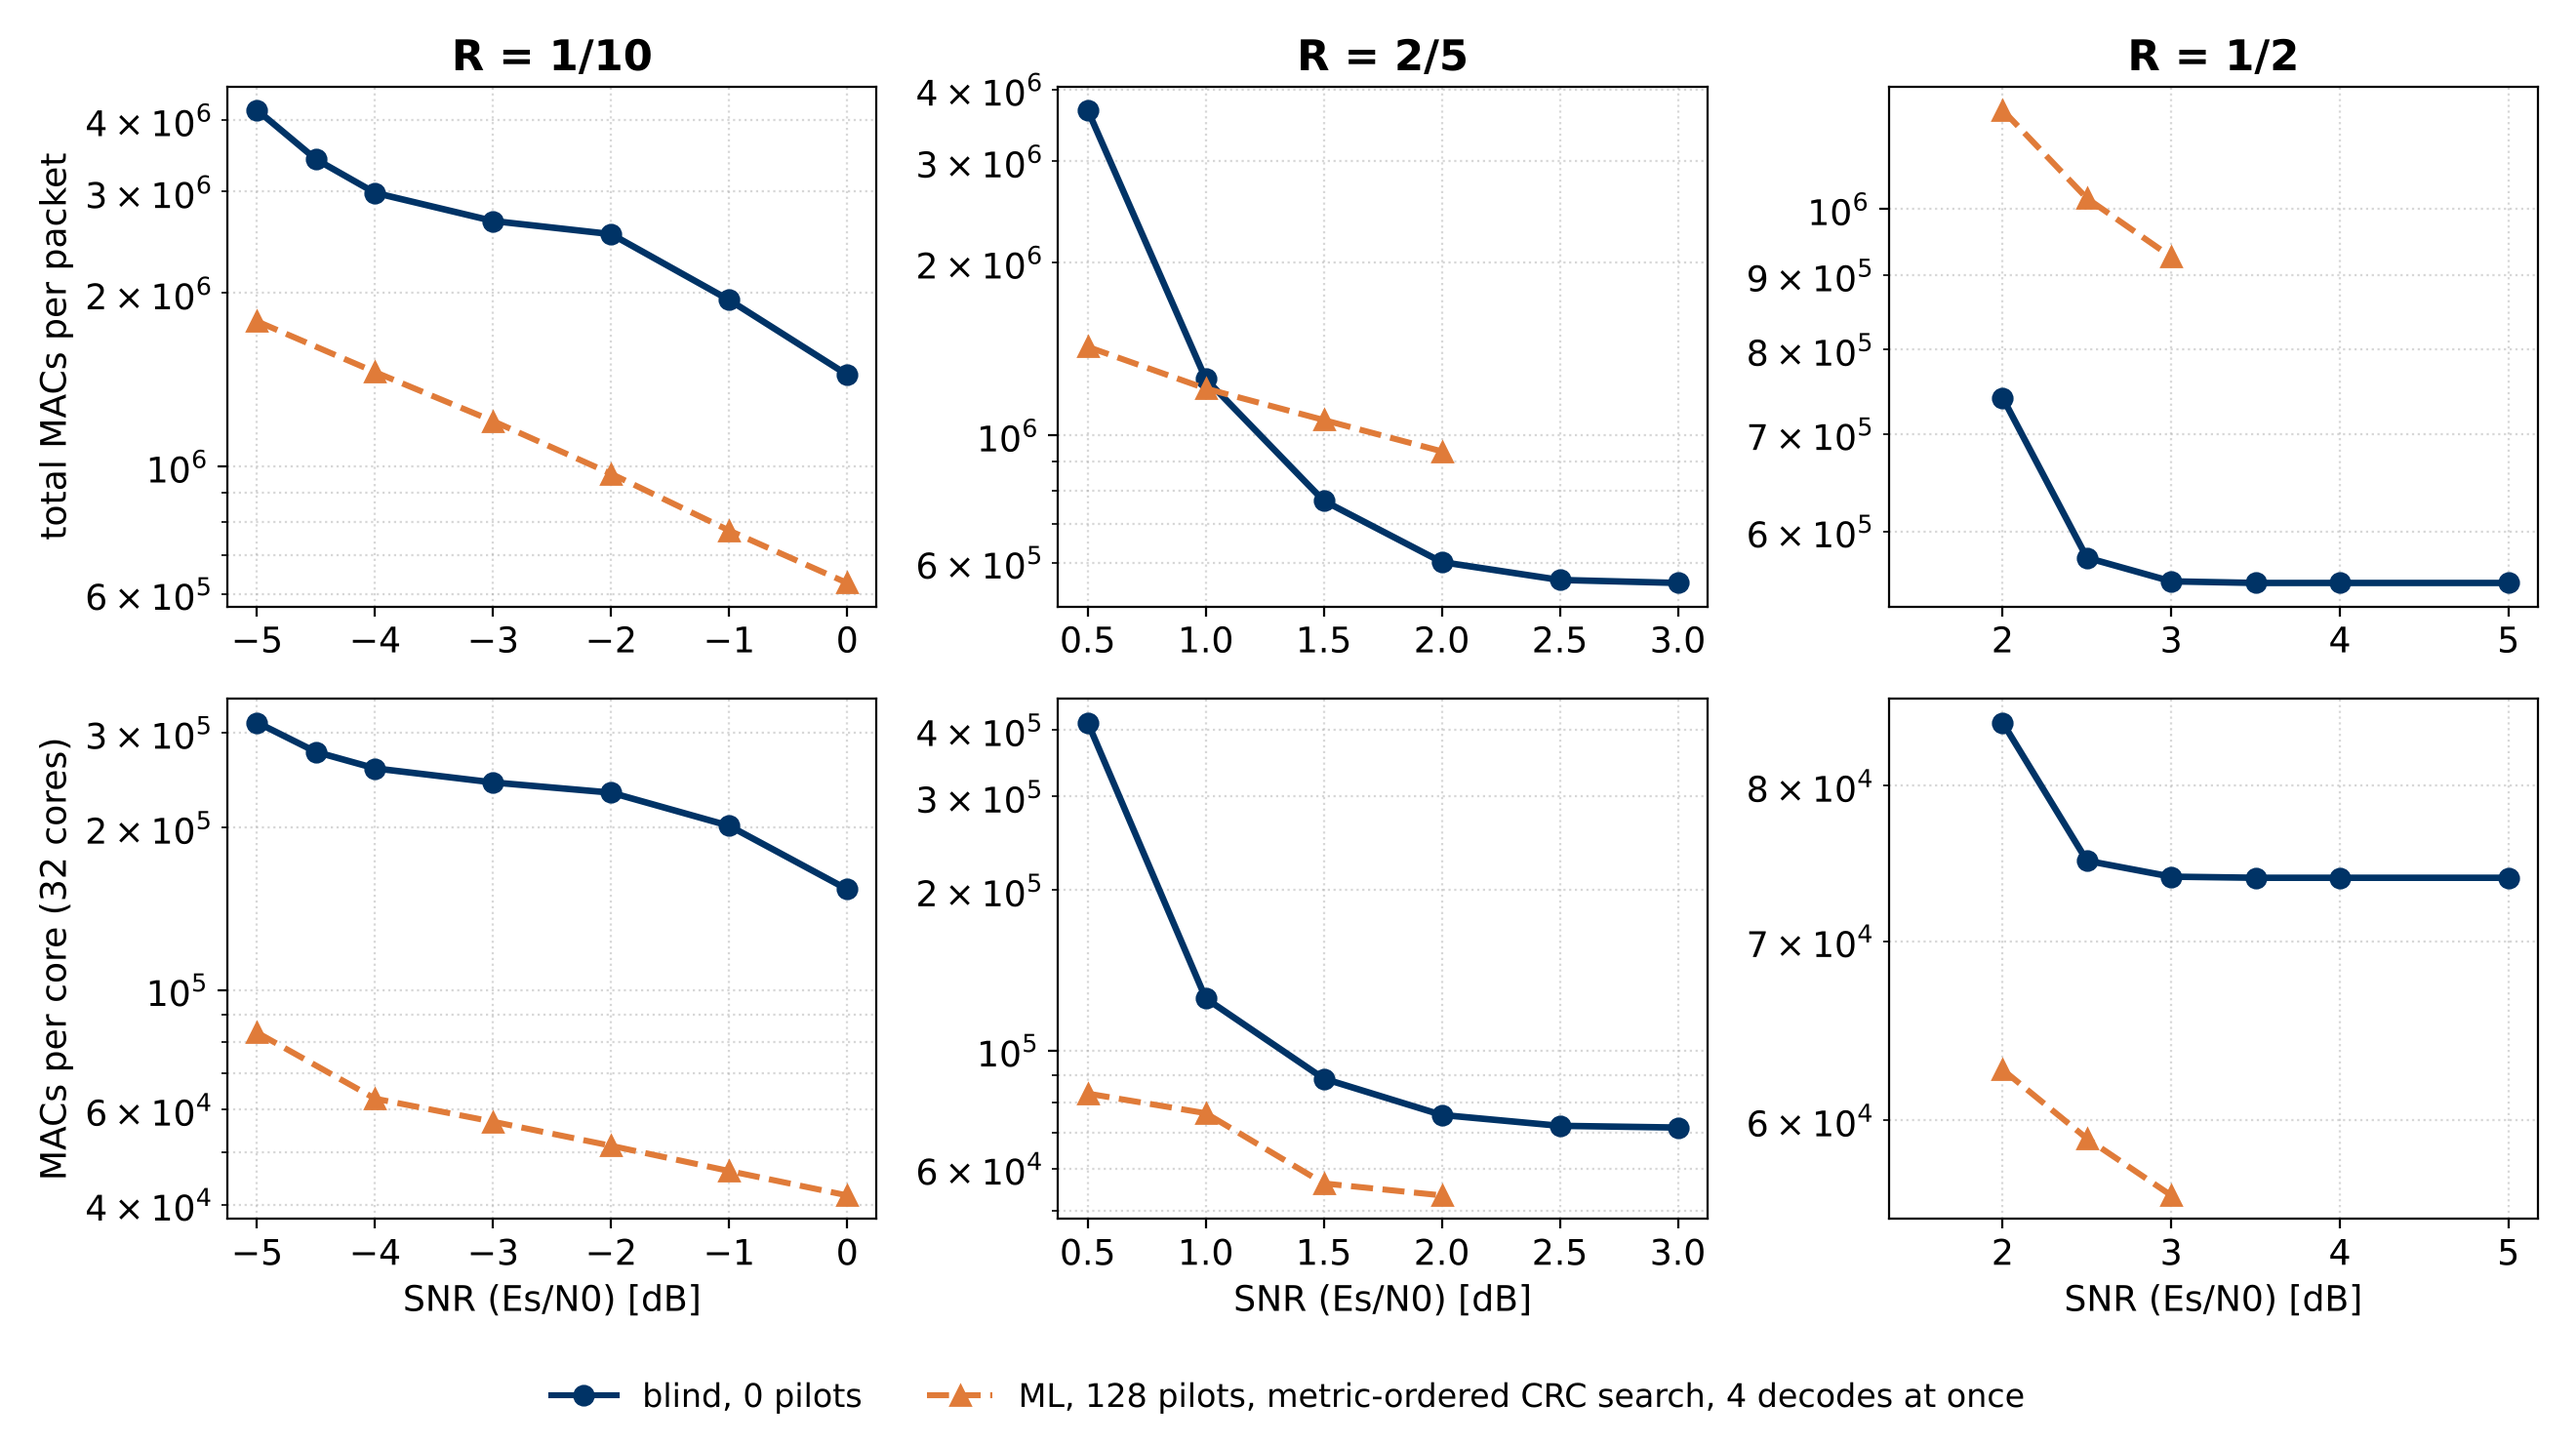
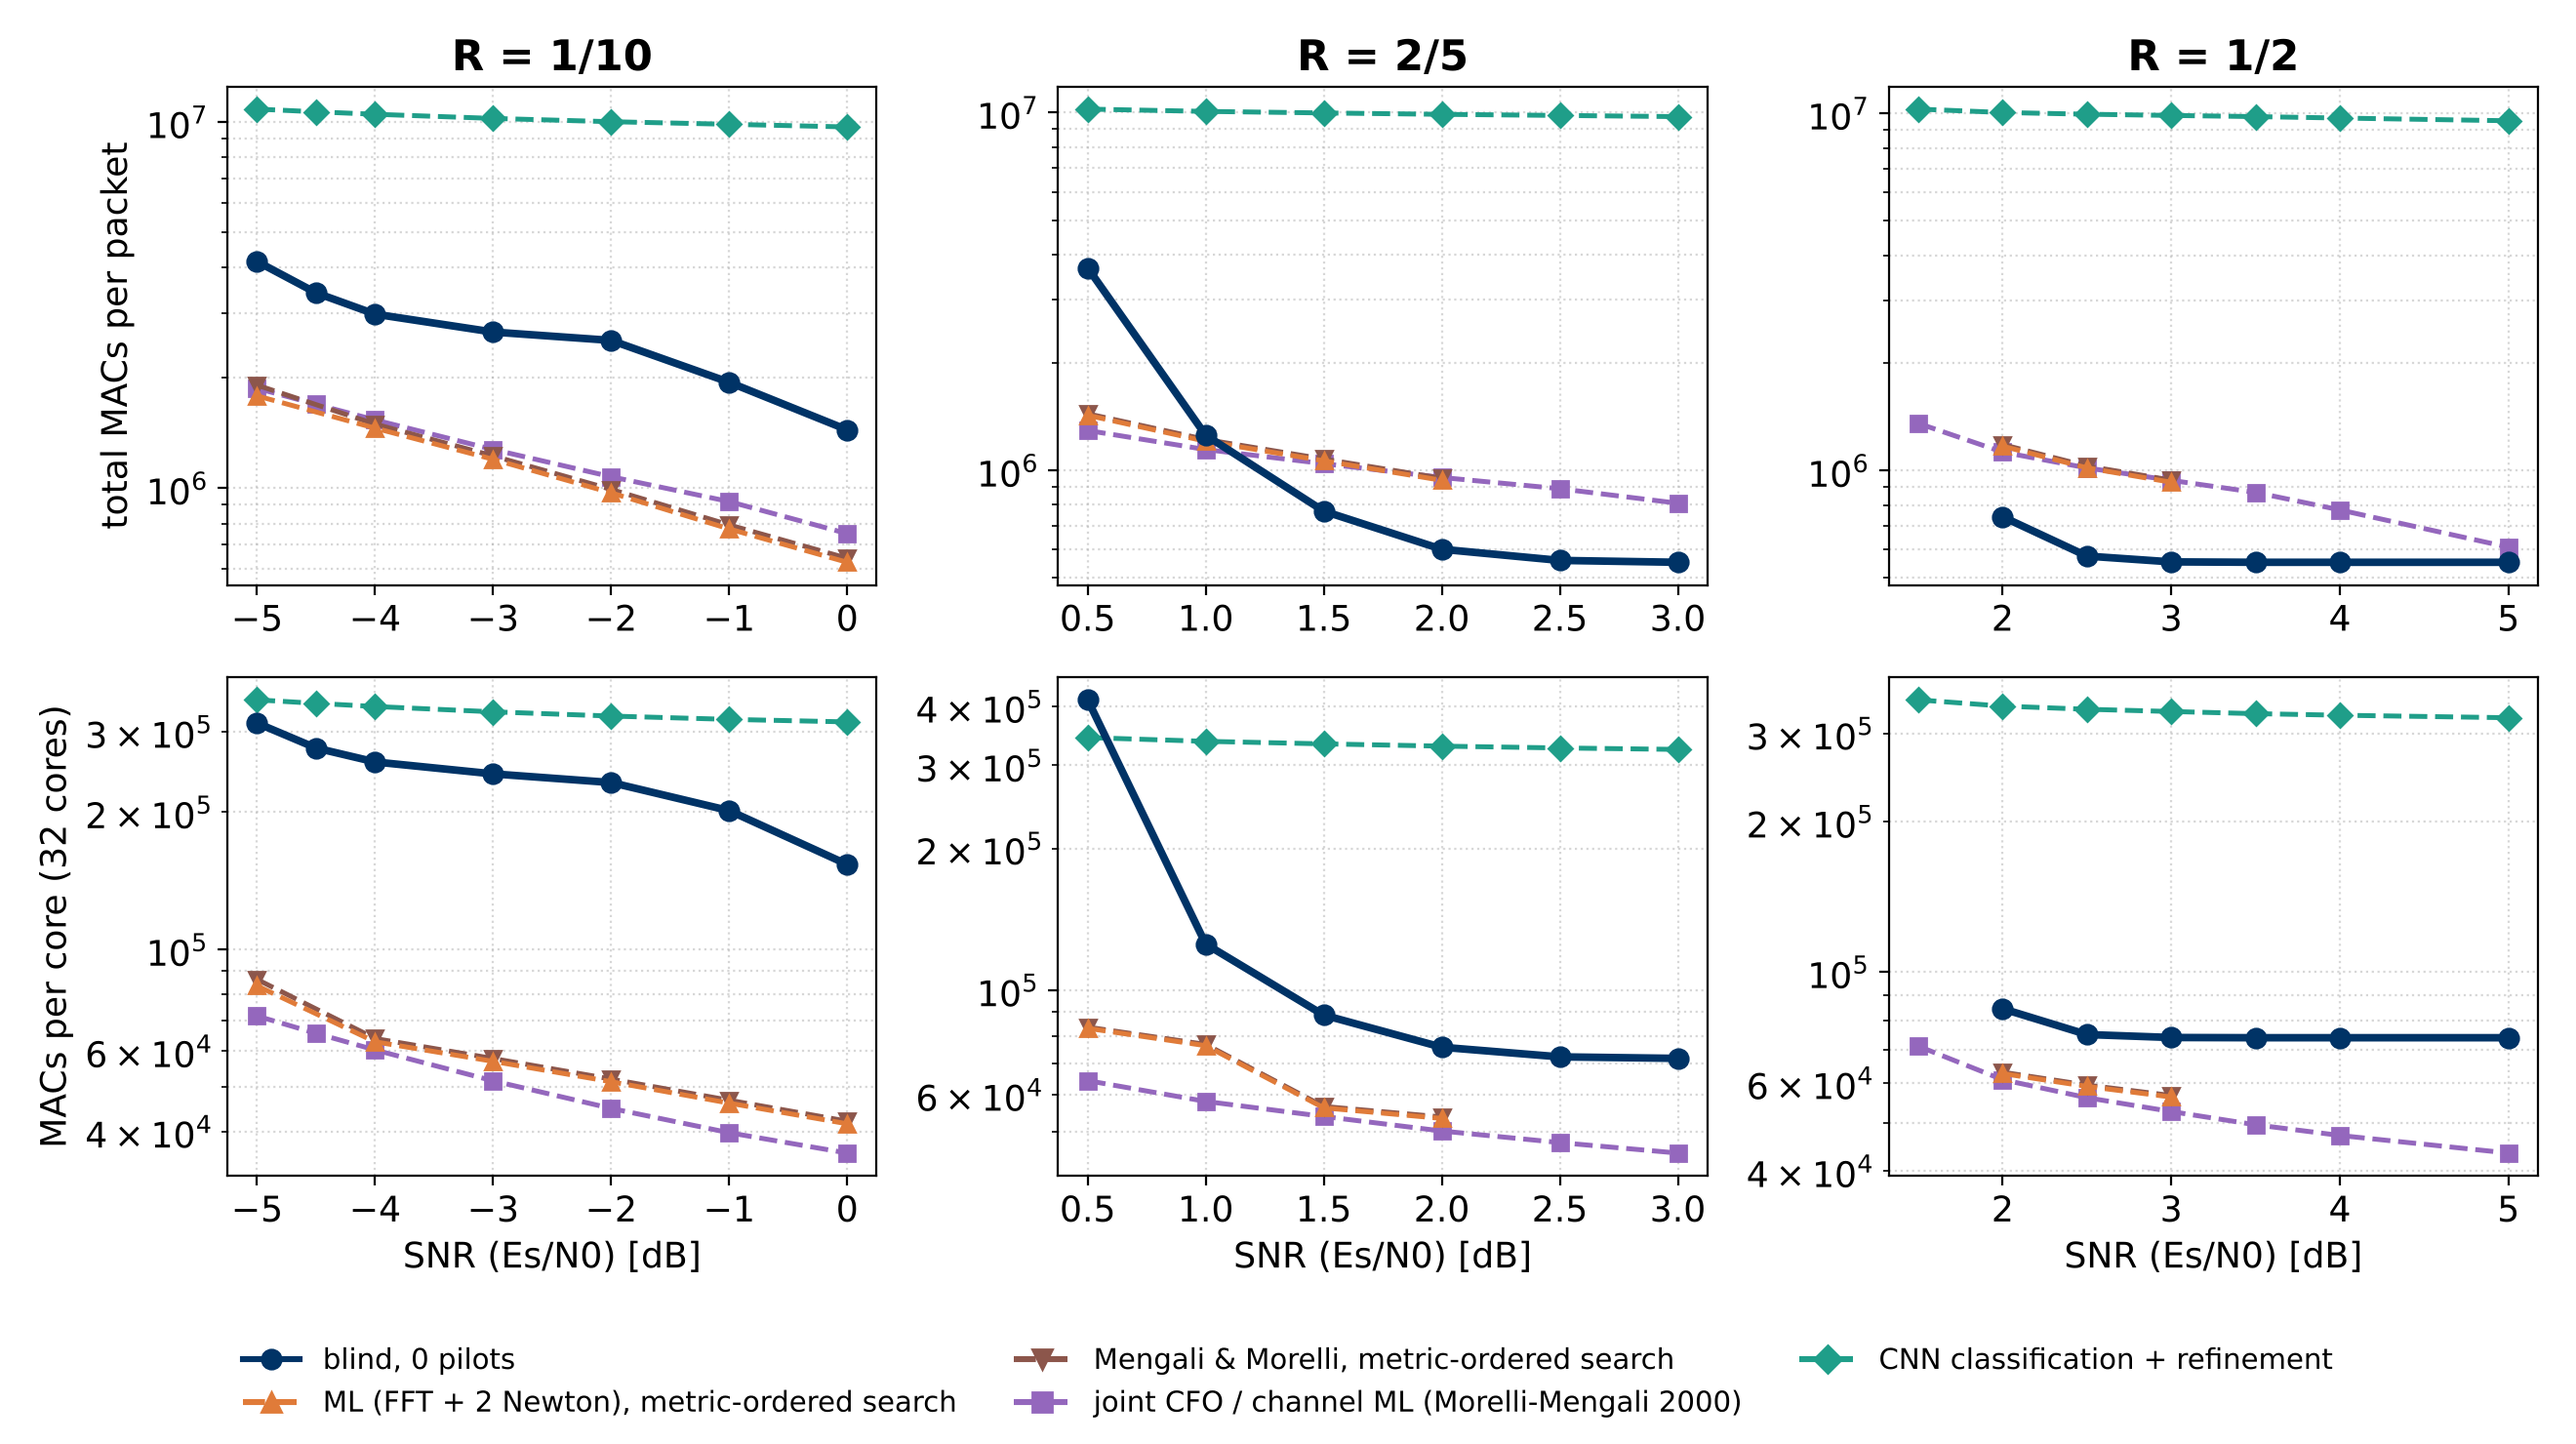
Slide figures: add M&M, joint CFO/channel ML, CNN, CRB and genie to the BLER and MACs-vs-SNR comparisons
Claude-Session: https://claude.ai/code/session_01Uut9iw5SnA6a3eeYDv3vkc

diff --git a/slides_eq/plot_results.py b/slides_eq/plot_results.py
@@ -26,6 +26,15 @@ D = json.load(open(os.path.join(HERE, "data", "results_c90c5b7.json")))
 RATES = ("1/10", "2/5", "1/2")
 NAVY, ORANGE, GREY = "#003366", "#E07B39", "#777777"
 PILOT = "ML, 128 pilots, metric-ordered CRC search"
+# 128-pilot receivers (est3, same back-end as blind). ML and M&M use the metric-ordered ("fair") CRC search; the joint
+# ML and CNN runs exist only with the fixed |k|-order search. CRB: CFO error drawn at the CRB (ideal estimator). Genie:
+# known CFO and phase, one decode (no MACs curve).
+MODELS = (("ML direct PM+all", "ML (FFT + 2 Newton), metric-ordered search", ORANGE, "^", "--"),
+          ("M&M PM+all", "Mengali & Morelli, metric-ordered search", "#8c564b", "v", "--"),
+          ("Joint ML Lh=3", "joint CFO / channel ML (Morelli-Mengali 2000)", "#9467bd", "s", "--"),
+          ("cnn-cr", "CNN classification + refinement", "#1f9e89", "D", "--"),
+          ("CRB 128 pilots", "CFO error at the CRB (ideal 128-pilot estimator)", GREY, "x", ":"),
+          ("Genie CFO", "genie: known CFO and phase, one decode", "k", "", ":"))
 plt.rcParams.update({"font.size": 13, "font.family": "DejaVu Sans"})
 
 
@@ -67,19 +76,29 @@ def xlim(ax, rate):
     ax.set_xlim(min(s) - pad, max(s) + pad)
 
 
+def in_range(rate, pts):
+    s = [p[0] for p in D[rate]["blind_cnt"] if p[2] >= 10000]
+    return [p for p in pts if min(s) - 1e-9 <= p[0] <= max(s) + 1e-9]
+
+
 def bler_all():
     fig, axs = plt.subplots(1, 3, figsize=(13.2, 4.7))
     for ax, rate in zip(axs, RATES):
         o = D[rate]
-        bl = [(s, e / n) for s, e, n, u in o["blind_cnt"] if n >= 10000]
-        ml = [(s, e / n) for s, e, n, *_ in o["ML direct PM+all"]]
-        draw(ax, bl, color=NAVY, ls="-", lw=2.2, marker="o", ms=7)
-        draw(ax, ml, color=ORANGE, ls="--", lw=2.2, marker="^", ms=7)
+        for src, lab, c, mk, ls in MODELS[::-1]:
+            pts = in_range(rate, [(s_, e / n) for s_, e, n, *_ in o[src]])
+            draw(ax, pts, color=c, ls=ls, lw=1.8, marker=mk, ms=6)
+        bl = [(s_, e / n) for s_, e, n, u in o["blind_cnt"] if n >= 10000]
+        draw(ax, bl, color=NAVY, ls="-", lw=2.8, marker="o", ms=7)
         ax.set_title(f"R = {rate}", fontweight="bold")
         xlim(ax, rate)
     axs[0].set_ylabel("BLER")
-    finish(fig, axs, [line(NAVY, "-", "o"), line(ORANGE, "--", "^")], ["blind, 0 pilots", PILOT])
-    fig.tight_layout(rect=(0, 0.08, 1, 1))
+    finish(fig, axs, [line(NAVY, "-", "o")] + [line(c, ls, mk) for _, _, c, mk, ls in MODELS],
+           ["blind, 0 pilots"] + [lab for _, lab, *_ in MODELS], ncol=3)
+    for lg in fig.legends:
+        for t in lg.get_texts():
+            t.set_fontsize(10.5)
+    fig.tight_layout(rect=(0, 0.17, 1, 1))
     fig.savefig(os.path.join(HERE, "bler_all.png"), dpi=200, facecolor="white")
 
 
@@ -103,14 +122,16 @@ def bler_cap():
 
 def macs_snr():
     fig, axs = plt.subplots(2, 3, figsize=(13.2, 7.4))
+    models = [m for m in MODELS if m[0] + " macs" in D["1/10"]]
     for j, rate in enumerate(RATES):
         o = D[rate]
-        bm = [p for p in o["blind_macs"]]
-        pm = o["ML direct PM+all macs"]
+        bm = o["blind_macs"]
         for i, (k, lab) in enumerate(((1, "total MACs per packet"), (2, "MACs per core (32 cores)"))):
             ax = axs[i, j]
-            ax.plot([p[0] for p in bm], [p[k] for p in bm], color=NAVY, lw=2.4, marker="o", ms=7)
-            ax.plot([p[0] for p in pm], [p[k] for p in pm], color=ORANGE, ls="--", lw=2.2, marker="^", ms=7)
+            for src, _, c, mk, ls in models[::-1]:
+                pm = in_range(rate, o[src + " macs"])
+                ax.plot([p[0] for p in pm], [p[k] for p in pm], color=c, ls=ls, lw=1.8, marker=mk, ms=6)
+            ax.plot([p[0] for p in bm], [p[k] for p in bm], color=NAVY, lw=2.8, marker="o", ms=7)
             ax.set_yscale("log")
             ax.grid(True, which="both", ls=":", alpha=0.5)
             if j == 0:
@@ -120,10 +141,10 @@ def macs_snr():
             else:
                 ax.set_xlabel("SNR (Es/N0) [dB]")
             xlim(ax, rate)
-    fig.legend([line(NAVY, "-", "o"), line(ORANGE, "--", "^")],
-               ["blind, 0 pilots", PILOT + ", 4 decodes at once"],
-               loc="lower center", ncol=2, fontsize=12, frameon=False)
-    fig.tight_layout(rect=(0, 0.06, 1, 1))
+    fig.legend([line(NAVY, "-", "o")] + [line(c, ls, mk) for _, _, c, mk, ls in models],
+               ["blind, 0 pilots"] + [lab for _, lab, *_ in models],
+               loc="lower center", ncol=3, fontsize=10.5, frameon=False)
+    fig.tight_layout(rect=(0, 0.09, 1, 1))
     fig.savefig(os.path.join(HERE, "macs_snr.png"), dpi=200, facecolor="white")
 
 

diff --git a/slides_eq/aggregate_results.py b/slides_eq/aggregate_results.py
@@ -21,10 +21,12 @@ for rate in RATES:
     # merged blind counts from blind_ber.json: frames, errors
     bj = json.load(open(P.BLIND_JSON))
     o["blind_cnt"] = sorted((x["snr"], x["frame_err"], x["frames"], x.get("undetected", 0)) for x in bj if x["rate"] == rate and x["rx"] == P.BLIND_RX[rate])
-    for src in ("ML direct PM+all", "ML direct"):
+    for src in ("ML direct PM+all", "ML direct", "M&M PM+all", "M&M", "Joint ML Lh=3", "cnn-cr", "CRB 128 pilots", "Genie CFO"):
         o[src] = sorted((r["snr"], r["frame_err"], r["frames"], r["extra_decodes_per_frame"], r["metric_evals"] / r["frames"],
                          (r["metric_rounds"] / r["frames"]) if r.get("metric_rounds") else None) for r in rows if r["rate"] == rate and r["src"] == src)
         mac = []
+        if src.split(" PM")[0] not in P.EST_NAME:
+            continue
         for s, e, n, x, me, mr in o[src]:
             t, c = P.pilot_macs(rate, src, x, m_evals=me if "PM" in src else 0.0, m_rounds=mr if "PM" in src else None)
             mac.append((s, t, c))
